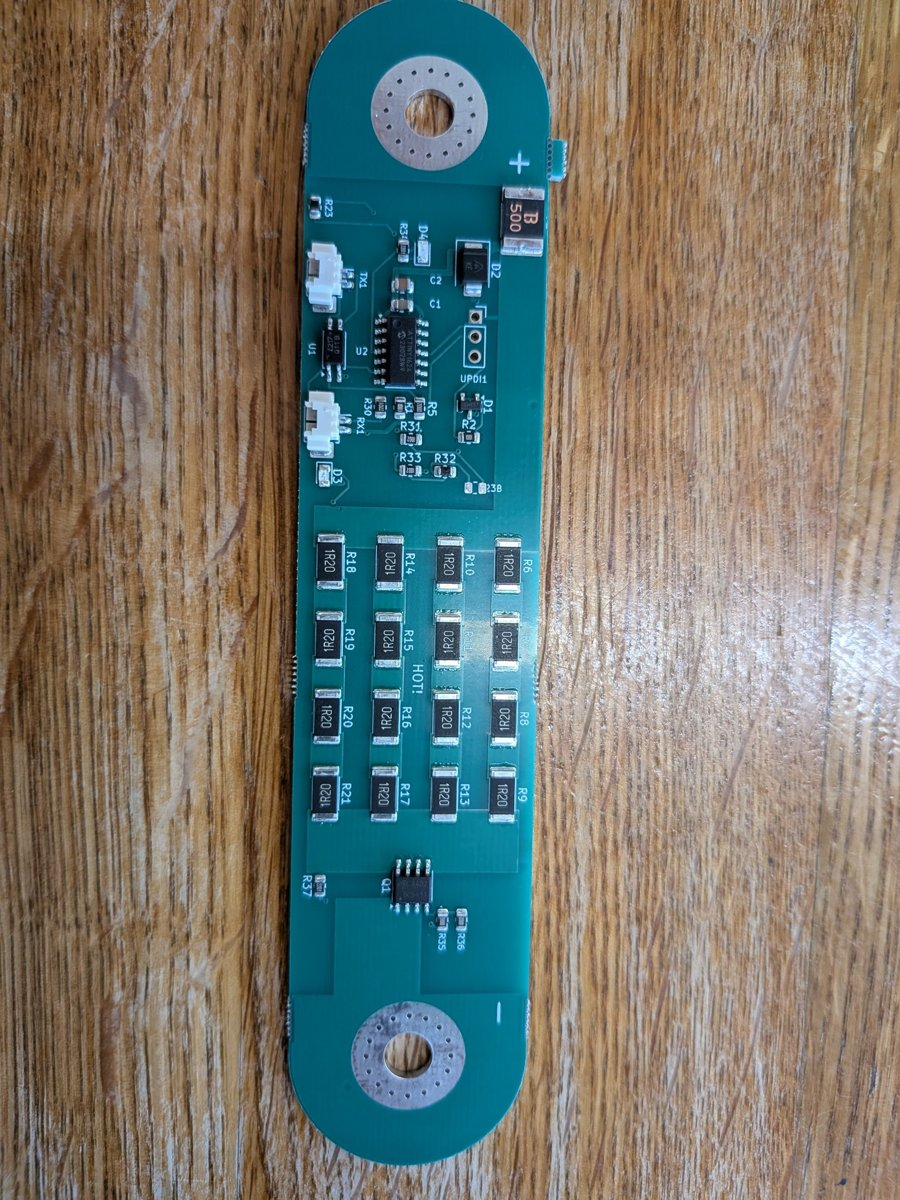
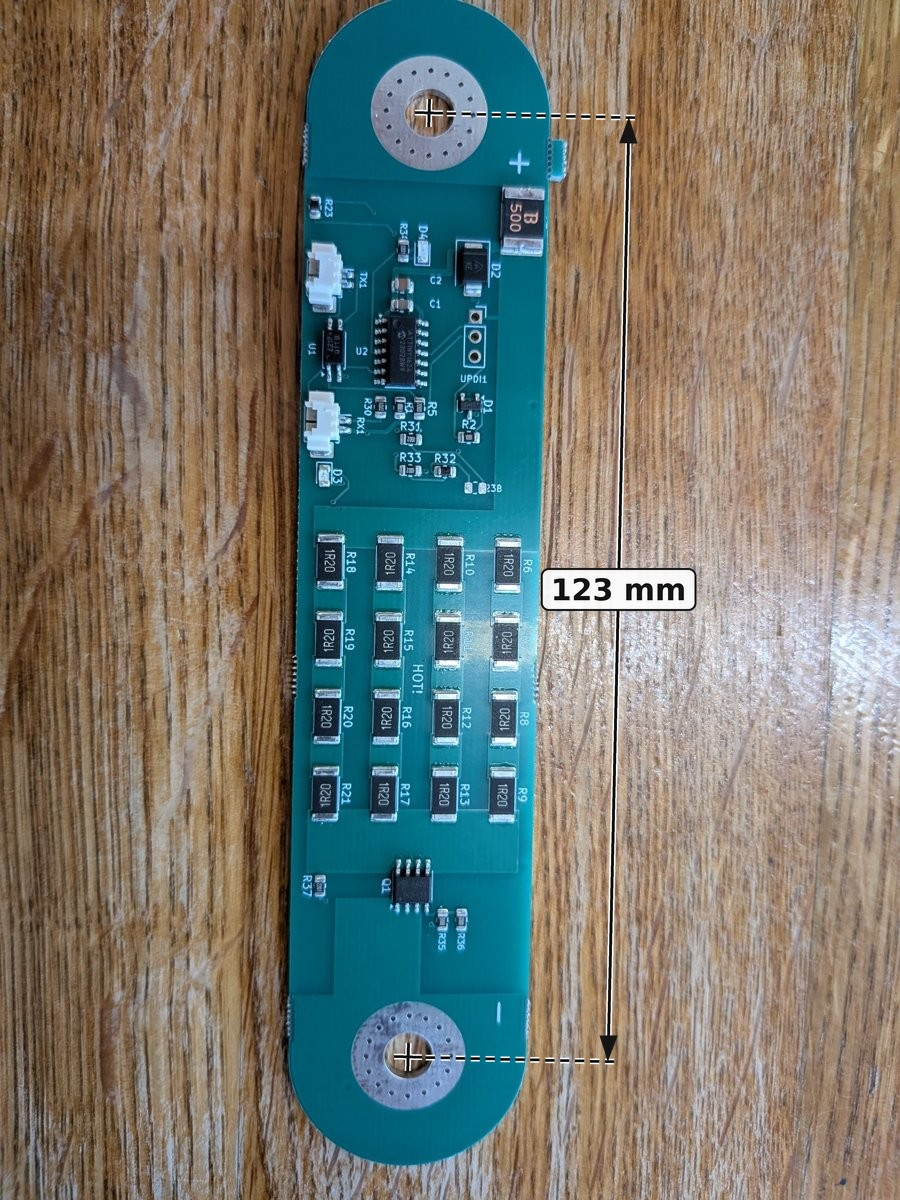
Preview images: dimension the bolt spacing (123 mm / 89 mm)
Dimension line with centre marks, extension lines and arrows on the top/bottom
renders of both boards and on the photo of the assembled Bolt123_V1.

Claude-Session: https://claude.ai/code/session_01SqYaZD5MyB12zL6XbmoSpE

Changed region(s): [[0.4356, 0.0925, 0.7778, 0.8942], [0.4667, 0.0617, 0.4978, 0.1233]]

diff --git a/ModuleV450_Bolt123_V1/scripts/dimension.py b/ModuleV450_Bolt123_V1/scripts/dimension.py
@@ -1,0 +1,98 @@
+#!/usr/bin/env python3
+"""Draw a technical dimension (centre marks, extension lines, arrows, label) between two hole centres."""
+import math
+from PIL import Image, ImageDraw, ImageFont
+
+FONT = '/usr/share/fonts/truetype/dejavu/DejaVuSans-Bold.ttf'
+SS = 4   # supersampling
+
+
+def dimension(img, p1, p2, offset, label, color=(30, 30, 30), outline=None, width=3, font_px=34,
+              hole_r=None):
+    """p1, p2: hole centres (px). offset: signed distance of the dimension line from the axis p1-p2 (px)."""
+    W, H = img.size
+    big = Image.new('RGBA', (W * SS, H * SS), (0, 0, 0, 0))
+    d = ImageDraw.Draw(big)
+    s = lambda p: (p[0] * SS, p[1] * SS)
+    (x1, y1), (x2, y2) = p1, p2
+    L = math.hypot(x2 - x1, y2 - y1)
+    ux, uy = (x2 - x1) / L, (y2 - y1) / L            # along
+    nx, ny = -uy, ux                                  # normal
+    q1 = (x1 + nx * offset, y1 + ny * offset)
+    q2 = (x2 + nx * offset, y2 + ny * offset)
+    sign = 1 if offset >= 0 else -1
+    over = 12 * sign
+
+    def strokes(col, wd):
+        lw = int(wd * SS)
+        # centre marks
+        r = 14
+        for (cx, cy) in (p1, p2):
+            d.line([s((cx - r * ux, cy - r * uy)), s((cx + r * ux, cy + r * uy))], fill=col, width=lw)
+            d.line([s((cx - r * nx, cy - r * ny)), s((cx + r * nx, cy + r * ny))], fill=col, width=lw)
+        # extension lines (dashed) from the hole centre to just beyond the dimension line
+        start = 18
+        for (cx, cy) in (p1, p2):
+            a = (cx + nx * start * sign, cy + ny * start * sign)
+            b = (cx + nx * (offset + over), cy + ny * (offset + over))
+            seg = math.hypot(b[0] - a[0], b[1] - a[1]); n = max(1, int(seg // 14))
+            for k in range(n):
+                t0, t1 = k / n, (k + 0.6) / n
+                d.line([s((a[0] + (b[0] - a[0]) * t0, a[1] + (b[1] - a[1]) * t0)),
+                        s((a[0] + (b[0] - a[0]) * t1, a[1] + (b[1] - a[1]) * t1))], fill=col, width=lw)
+        # dimension line between the arrow tips
+        AL, AW = 26, 9
+        d.line([s((q1[0] + ux * AL * 0.8, q1[1] + uy * AL * 0.8)),
+                s((q2[0] - ux * AL * 0.8, q2[1] - uy * AL * 0.8))], fill=col, width=lw)
+        # arrow heads (filled)
+        for tip, dirn in ((q1, 1), (q2, -1)):
+            bx, by = tip[0] + ux * AL * dirn, tip[1] + uy * AL * dirn
+            d.polygon([s(tip), s((bx + nx * AW, by + ny * AW)), s((bx - nx * AW, by - ny * AW))], fill=col)
+
+    if outline:
+        strokes(outline + (255,), width + 3)
+    strokes(color + (255,), width)
+
+    # label in a rounded box at the middle of the dimension line
+    font = ImageFont.truetype(FONT, font_px * SS)
+    tb = d.textbbox((0, 0), label, font=font)
+    tw, th = tb[2] - tb[0], tb[3] - tb[1]
+    mx, my = (q1[0] + q2[0]) / 2 * SS, (q1[1] + q2[1]) / 2 * SS
+    pad = 10 * SS
+    box = [mx - tw / 2 - pad, my - th / 2 - pad, mx + tw / 2 + pad, my + th / 2 + pad]
+    d.rounded_rectangle(box, radius=8 * SS, fill=(255, 255, 255, 235), outline=(color + (255,)), width=2 * SS)
+    d.text((mx - tw / 2 - tb[0], my - th / 2 - tb[1]), label, font=font, fill=color + (255,))
+
+    small = big.resize((W, H), Image.LANCZOS)
+    out = img.convert('RGBA')
+    out.alpha_composite(small)
+    return out.convert('RGB')
+
+
+def annotate_render(src, dst, pitch_mm, side='top', dpi=300, margin_mm=1.0, half_mm=15.75, pad_top=110):
+    """Preview render (from render_preview.py): add white space above and dimension the bolt spacing."""
+    im = Image.open(src).convert('RGB')
+    W, H = im.size
+    s = dpi / 25.4
+    xa = (half_mm + margin_mm) * s
+    xb = (half_mm + margin_mm + pitch_mm) * s
+    if side == 'bottom':
+        xa, xb = W - xb, W - xa
+    yc = (half_mm + margin_mm) * s + pad_top
+    canvas = Image.new('RGB', (W, H + pad_top), (255, 255, 255))
+    canvas.paste(im, (0, pad_top))
+    out = dimension(canvas, (xa, yc), (xb, yc), -(yc - 48), 'Lochabstand %g mm' % pitch_mm)
+    out.save(dst)
+
+
+if __name__ == '__main__':
+    import sys
+    mode = sys.argv[1]
+    if mode == 'render':
+        annotate_render(sys.argv[2], sys.argv[3], float(sys.argv[4]), sys.argv[5])
+    elif mode == 'photo':
+        src, dst, x1, y1, x2, y2, off, label = sys.argv[2:10]
+        im = Image.open(src).convert('RGB')
+        out = dimension(im, (float(x1), float(y1)), (float(x2), float(y2)), float(off), label,
+                        color=(20, 20, 20), outline=(255, 255, 255), width=3, font_px=30)
+        out.save(dst, quality=90)

diff --git a/ModuleV450_Bolt89/scripts/dimension.py b/ModuleV450_Bolt89/scripts/dimension.py
@@ -1,0 +1,98 @@
+#!/usr/bin/env python3
+"""Draw a technical dimension (centre marks, extension lines, arrows, label) between two hole centres."""
+import math
+from PIL import Image, ImageDraw, ImageFont
+
+FONT = '/usr/share/fonts/truetype/dejavu/DejaVuSans-Bold.ttf'
+SS = 4   # supersampling
+
+
+def dimension(img, p1, p2, offset, label, color=(30, 30, 30), outline=None, width=3, font_px=34,
+              hole_r=None):
+    """p1, p2: hole centres (px). offset: signed distance of the dimension line from the axis p1-p2 (px)."""
+    W, H = img.size
+    big = Image.new('RGBA', (W * SS, H * SS), (0, 0, 0, 0))
+    d = ImageDraw.Draw(big)
+    s = lambda p: (p[0] * SS, p[1] * SS)
+    (x1, y1), (x2, y2) = p1, p2
+    L = math.hypot(x2 - x1, y2 - y1)
+    ux, uy = (x2 - x1) / L, (y2 - y1) / L            # along
+    nx, ny = -uy, ux                                  # normal
+    q1 = (x1 + nx * offset, y1 + ny * offset)
+    q2 = (x2 + nx * offset, y2 + ny * offset)
+    sign = 1 if offset >= 0 else -1
+    over = 12 * sign
+
+    def strokes(col, wd):
+        lw = int(wd * SS)
+        # centre marks
+        r = 14
+        for (cx, cy) in (p1, p2):
+            d.line([s((cx - r * ux, cy - r * uy)), s((cx + r * ux, cy + r * uy))], fill=col, width=lw)
+            d.line([s((cx - r * nx, cy - r * ny)), s((cx + r * nx, cy + r * ny))], fill=col, width=lw)
+        # extension lines (dashed) from the hole centre to just beyond the dimension line
+        start = 18
+        for (cx, cy) in (p1, p2):
+            a = (cx + nx * start * sign, cy + ny * start * sign)
+            b = (cx + nx * (offset + over), cy + ny * (offset + over))
+            seg = math.hypot(b[0] - a[0], b[1] - a[1]); n = max(1, int(seg // 14))
+            for k in range(n):
+                t0, t1 = k / n, (k + 0.6) / n
+                d.line([s((a[0] + (b[0] - a[0]) * t0, a[1] + (b[1] - a[1]) * t0)),
+                        s((a[0] + (b[0] - a[0]) * t1, a[1] + (b[1] - a[1]) * t1))], fill=col, width=lw)
+        # dimension line between the arrow tips
+        AL, AW = 26, 9
+        d.line([s((q1[0] + ux * AL * 0.8, q1[1] + uy * AL * 0.8)),
+                s((q2[0] - ux * AL * 0.8, q2[1] - uy * AL * 0.8))], fill=col, width=lw)
+        # arrow heads (filled)
+        for tip, dirn in ((q1, 1), (q2, -1)):
+            bx, by = tip[0] + ux * AL * dirn, tip[1] + uy * AL * dirn
+            d.polygon([s(tip), s((bx + nx * AW, by + ny * AW)), s((bx - nx * AW, by - ny * AW))], fill=col)
+
+    if outline:
+        strokes(outline + (255,), width + 3)
+    strokes(color + (255,), width)
+
+    # label in a rounded box at the middle of the dimension line
+    font = ImageFont.truetype(FONT, font_px * SS)
+    tb = d.textbbox((0, 0), label, font=font)
+    tw, th = tb[2] - tb[0], tb[3] - tb[1]
+    mx, my = (q1[0] + q2[0]) / 2 * SS, (q1[1] + q2[1]) / 2 * SS
+    pad = 10 * SS
+    box = [mx - tw / 2 - pad, my - th / 2 - pad, mx + tw / 2 + pad, my + th / 2 + pad]
+    d.rounded_rectangle(box, radius=8 * SS, fill=(255, 255, 255, 235), outline=(color + (255,)), width=2 * SS)
+    d.text((mx - tw / 2 - tb[0], my - th / 2 - tb[1]), label, font=font, fill=color + (255,))
+
+    small = big.resize((W, H), Image.LANCZOS)
+    out = img.convert('RGBA')
+    out.alpha_composite(small)
+    return out.convert('RGB')
+
+
+def annotate_render(src, dst, pitch_mm, side='top', dpi=300, margin_mm=1.0, half_mm=15.75, pad_top=110):
+    """Preview render (from render_preview.py): add white space above and dimension the bolt spacing."""
+    im = Image.open(src).convert('RGB')
+    W, H = im.size
+    s = dpi / 25.4
+    xa = (half_mm + margin_mm) * s
+    xb = (half_mm + margin_mm + pitch_mm) * s
+    if side == 'bottom':
+        xa, xb = W - xb, W - xa
+    yc = (half_mm + margin_mm) * s + pad_top
+    canvas = Image.new('RGB', (W, H + pad_top), (255, 255, 255))
+    canvas.paste(im, (0, pad_top))
+    out = dimension(canvas, (xa, yc), (xb, yc), -(yc - 48), 'Lochabstand %g mm' % pitch_mm)
+    out.save(dst)
+
+
+if __name__ == '__main__':
+    import sys
+    mode = sys.argv[1]
+    if mode == 'render':
+        annotate_render(sys.argv[2], sys.argv[3], float(sys.argv[4]), sys.argv[5])
+    elif mode == 'photo':
+        src, dst, x1, y1, x2, y2, off, label = sys.argv[2:10]
+        im = Image.open(src).convert('RGB')
+        out = dimension(im, (float(x1), float(y1)), (float(x2), float(y2)), float(off), label,
+                        color=(20, 20, 20), outline=(255, 255, 255), width=3, font_px=30)
+        out.save(dst, quality=90)
